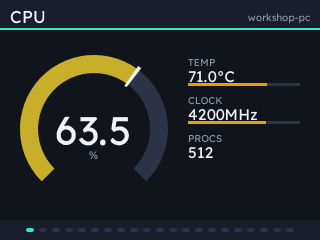
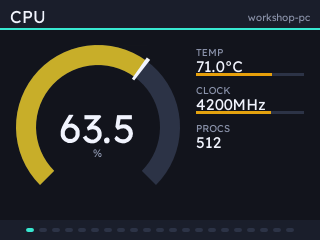
Put every split page on one layout
A dial, a ring stack and a clock face all divide the band into something round
and a column of text, and the three did it differently: the rings had their own
centre 20px right of the dial's, an outer radius 10px larger, and a legend
column 8px further right that its outermost ring came within 2px of. Paging
between them moved everything.

look.DIAL_GAP is now the space at the screen edge, between the two halves and
at the right edge, with DIAL_C, DIAL_OUTER, READOUT_X and READOUT_W worked out
from it, and look.readout_rows gives the row grid. The gauge grew to the radius
a clock face wants, 82, so all three fill the same circle: measured off the
framebuffer, every split page now inks x 16..179 about a centre of 98 with its
text starting at 196.

draw.readout is one row widget for both the dial and the ring legend, taking
either a level bar or a line stating what full is, and a colour chip for a row
whose note has displaced the bar. Ring bands are thinned to 14 so four still
fit. draw.column_lines stacks a column that is not readings - a clock's time,
place and date - so an extension gets the left edge and the rhythm without
working either out, and DEVELOPMENT.md states the rule for plugin authors.

Changed region(s): [[0.0312, 0.175, 0.9688, 0.7583], [0.125, 0.6125, 0.1875, 0.7292]]

diff --git a/src/statsbadge/badge_app/draw.py b/src/statsbadge/badge_app/draw.py
@@ -8,6 +8,13 @@ is not new every frame is baked into a sprite once.
 
 The header and footer change only when the page or the theme does, so they are baked
 into two band images per page and blitted over a raster fill of the body.
+
+A page that splits into something round and a column of text beside it - the single dial,
+the ring stack, an extension's clock face - takes its geometry from `look.DIAL_C`,
+`look.DIAL_OUTER` and `look.READOUT_X`, and its rows from `look.readout_rows` and either
+`readout` or `column_lines` here. Nothing in a split page should place text on a number of
+its own: the pages are paged between, and anything choosing its own margin moves under the
+reader when they press a button.
 """
 
 import os
@@ -483,17 +490,25 @@ def dials(theme, entries):
               name, shape_of["value"], shape_of["label"], fraction is None, icon, unit)
 
 
-def readout(theme, index, name, value_text, fraction=None, count=1):
-    """One of the small figures beside a dial, with a thin bar under it.
+def readout(theme, y, name, value_text, fraction=None, note=None, chip=None):
+    """One row of the column beside a gauge: a name, the reading under it, and then either
+    a bar for the level or a line saying what full is.
 
-    `count` is how many there are, because where the stack starts depends on that: it
-    hangs off the top of the dial unless it is too tall to.
+    Every page that draws a gauge and a column draws this row, so nothing moves when you
+    page between them. `chip` is the colour of the ring a row belongs to, which is what ties
+    the two together on a page where the gauge is not the bar.
     """
     x = look.READOUT_X
-    y = look.readout_top(count) + index * look.READOUT_H
     blit_label(name, look.SIZE_SMALL, theme.dim, x, y)
     blit_label(value_text, look.SIZE_VALUE, theme.ink, x, y + 10)
-    if fraction is not None:
+    if chip:
+        screen.pen = color.rgb(*chip)
+        screen.rectangle(rect(x + look.READOUT_W - 10, y + 3, 10, 10))
+    if note:
+        # What a full ring is, for a reading whose scale is not a round number. It takes
+        # the bar's place: the ring it belongs to is already the bar.
+        blit_label(note, look.SIZE_SMALL, theme.dim, x, y + 29)
+    elif fraction is not None:
         width = look.READOUT_W
         fraction = max(0.0, min(1.0, fraction))
         screen.pen = color.rgb(*theme.grid)
@@ -501,6 +516,29 @@ def readout(theme, index, name, value_text, fraction=None, count=1):
         if fraction > 0:
             screen.pen = color.rgb(*theme.at(fraction))
             screen.rectangle(rect(x, y + 28, int(width * fraction), 3))
+
+
+# Between one line of a free-form column and the next, on top of the line's own height.
+COLUMN_LEAD = 3
+
+
+def column_lines(entries, top=None, align=0):
+    """A stack of lines down the column beside a gauge, each `(text, size, rgb)`.
+
+    For a page whose rows are not readouts - a clock's time, place and date - so that it
+    gets the column's left edge and a consistent rhythm without working either out. Empty
+    strings are skipped, so a caller can offer a line it may not have.
+
+    Returns the y after the last line, for a page that has more to place by hand.
+    """
+    y = (look.BODY_TOP + 12) if top is None else top
+    x = look.READOUT_X + (look.READOUT_W if align == 2 else 0)
+    for text_value, size, rgb in entries:
+        if not text_value:
+            continue
+        blit_label(text_value, size, rgb, x, y, align=align)
+        y += int(size * 1.35) + COLUMN_LEAD
+    return y
 
 
 def bars(theme, values, maximum=100.0, field="pct"):
@@ -725,49 +763,39 @@ def toast(theme, message):
 
 # -- rings ------------------------------------------------------------------
 
-# The stack reaches further right than a single dial does, so its legend gets a column of
-# its own instead of the dial's.
-RINGS_C = (look.W // 2 - 46, look.BODY_MID)
-RINGS_OUTER = 84
-RINGS_LEGEND_X = RINGS_C[0] + RINGS_OUTER + 2
+# Thin enough that four rings fit the dial's own radius, which is what keeps this page on
+# the same bounds as a single gauge.
+RING_BAND = 14
+RING_GAP = 4
 
 
 def rings(theme, entries):
     """Concentric sweep gauges, outermost first, with a legend down the side.
 
     One arc per reading, so four readings cost four shapes: the same trick the single
-    gauge uses, at a quarter of the screen each.
+    gauge uses, at a quarter of the screen each. The stack sits where the single dial does
+    and the legend is that page's own column of readouts.
     """
-    centre = RINGS_C
-    outer = RINGS_OUTER
-    band = 15
-    gap = 4
-    # Room for a third line under a reading where one has a peak to state.
-    row = 42 if any(entry[4] for entry in entries[:4]) else 38
-    for index, (name, value_text, fraction, rgb, note) in enumerate(entries[:4]):
-        ring_outer = outer - index * (band + gap)
-        ring_inner = ring_outer - band
-        if ring_inner < 12:
+    rows = entries[:4]
+    height = look.READOUT_NOTE_H if any(entry[4] for entry in rows) else look.READOUT_H
+    for index, ((name, value_text, fraction, rgb, note), y) in enumerate(
+            zip(rows, look.readout_rows(len(rows), height))):
+        ring_outer = look.DIAL_OUTER - index * (RING_BAND + RING_GAP)
+        ring_inner = ring_outer - RING_BAND
+        if ring_inner < 8:
             break
         screen.pen = color.rgb(*theme.grid)
-        screen.shape(shape.arc(vec2(*centre), ring_inner, ring_outer,
+        screen.shape(shape.arc(vec2(*look.DIAL_C), ring_inner, ring_outer,
                                look.DIAL_FROM, look.DIAL_TO))
         if fraction:
             sweep = look.DIAL_FROM + (look.DIAL_TO - look.DIAL_FROM) * fraction
             screen.pen = color.rgb(*rgb)
-            screen.shape(shape.arc(vec2(*centre), ring_inner, ring_outer,
+            screen.shape(shape.arc(vec2(*look.DIAL_C), ring_inner, ring_outer,
                                    look.DIAL_FROM, sweep))
-
-        # The legend doubles as the reading, so the rings need no labels on them.
-        y = look.BODY_TOP + 12 + index * row
-        text_x = RINGS_LEGEND_X + 14
-        screen.pen = color.rgb(*rgb)
-        screen.rectangle(rect(RINGS_LEGEND_X, y + 6, 8, 8))
-        blit_label(name, look.SIZE_LABEL, theme.dim, text_x, y)
-        blit_label(value_text, look.SIZE_VALUE, theme.ink, text_x, y + 14)
-        if note:
-            # What a full ring is, for a reading whose scale is not a round number.
-            blit_label(note, look.SIZE_SMALL, theme.dim, text_x, y + 30)
+        # The legend doubles as the reading, so the rings need no labels on them. The chip
+        # is only for a row whose scale note has taken the bar's place: where there is a
+        # bar, it is already drawn in this ring's colour.
+        readout(theme, y, name, value_text, fraction, note, chip=rgb if note else None)
 
 
 # -- sparklines -------------------------------------------------------------

diff --git a/extensions/statsbadge-clock/src/statsbadge_clock/badge/clockface.py b/extensions/statsbadge-clock/src/statsbadge_clock/badge/clockface.py
@@ -31,8 +31,10 @@ WEATHER_FONT = "weather"
 # two of them together have room for.
 ICON_SIZE = 32
 
-CENTRE = (look.W // 2 - 62, look.BODY_TOP + look.BODY_H // 2)
-RADIUS = 82
+# The app's own split layout: where its single gauge sits and how big it may be, so paging
+# from a dial or a ring stack to a clock does not move the thing being looked at.
+CENTRE = look.DIAL_C
+RADIUS = look.DIAL_OUTER
 
 # The dials, each a palette and a set of proportions of the radius. A dial is mostly the
 # weight of its marks against the width of its hands, so these are the whole design.
@@ -305,21 +307,16 @@ def render(page, frame, _history, theme):
         screen.pen = color.rgb(*rgb["second"])
         screen.shape(shape.circle(vec2(*CENTRE), spec["hub"]))
 
-    # The readouts beside the dial, in the badge's theme rather than the clock's. Placed
-    # off the dial and not off the app's own readout column, which belongs to a gauge of a
-    # different size.
-    x = CENTRE[0] + RADIUS + 14
-    y = look.BODY_TOP + 12
-    if clock.get("time"):
-        draw.blit_label(clock["time"], look.SIZE_BIG, theme.ink, x, y)
-        y += 32
-    if label:
-        # Which city this is, since the point of a second page is that it is elsewhere.
-        draw.blit_label(label, look.SIZE_SMALL, theme.accent, x, y)
-        y += 16
-    if clock.get("date"):
-        draw.blit_label(clock["date"], look.SIZE_SMALL, theme.dim, x, y)
-        y += 24
+    # The readouts beside the dial, in the badge's theme rather than the clock's, and down
+    # the app's own column so they line up with a gauge page's.
+    x = look.READOUT_X
+    # Which city this is, since the point of a second page is that it is elsewhere.
+    y = draw.column_lines((
+        (clock.get("time"), look.SIZE_BIG, theme.ink),
+        (label, look.SIZE_SMALL, theme.accent),
+        (clock.get("date"), look.SIZE_SMALL, theme.dim),
+    ))
+    y += 6
 
     # The symbol beside the reading, not above it: stacked, the column ran on to within a
     # few pixels of the page indicator.
@@ -336,17 +333,13 @@ def render(page, frame, _history, theme):
                             x + (drawn + 8 if drawn else 0), y)
         y += ICON_SIZE + 4
 
-    condition = weather.get("condition")
-    if condition:
-        draw.blit_label(condition, look.SIZE_SMALL, theme.dim, x, y)
-        y += 19
-
+    wind = None
     if weather.get("wind") is not None:
-        draw.blit_label("wind {:.0f} {}".format(weather["wind"],
-                                                weather.get("wind_unit") or ""),
-                        look.SIZE_SMALL, theme.dim, x, y)
+        wind = "wind {:.0f} {}".format(weather["wind"], weather.get("wind_unit") or "")
     elif not weather:
-        draw.blit_label("no location set", look.SIZE_SMALL, theme.dim, x, y)
+        wind = "no location set"
+    draw.column_lines(((weather.get("condition"), look.SIZE_SMALL, theme.dim),
+                       (wind, look.SIZE_SMALL, theme.dim)), top=y)
 
 
 # The badge's clock is set from the host once, and then left alone. A PCF85063A drifts a

diff --git a/src/statsbadge/badge_app/look.py b/src/statsbadge/badge_app/look.py
@@ -18,34 +18,45 @@ BODY_MID = BODY_TOP + BODY_H // 2
 
 PAD = 10
 
-# Dial geometry, in the body band. The one dial and the readouts beside it get the same
-# gap at the screen edge, between the two, and at the right edge, so the positions are
-# worked out from that gap rather than picked one at a time.
-DIAL_GAP = 20
-DIAL_OUTER = 74
-DIAL_INNER = 56
-DIAL_C = (DIAL_GAP + DIAL_OUTER, BODY_TOP + BODY_H // 2 + 4)
+# Dial geometry, in the body band, and with it the whole of the left half of any page that
+# splits into a gauge and a column: the single dial, the ring stack and an extension's clock
+# face all draw here. The gauge, the gap to the column and the right margin are all DIAL_GAP,
+# so the positions are worked out from it rather than picked one at a time, and the radius is
+# as large as that leaves room for - a clock face is a picture of an object and wants the
+# space, and a gauge that filled less of it made the layout jump between pages.
+DIAL_GAP = 16
+DIAL_OUTER = 82
+DIAL_INNER = 62
+# Nudged down, because a gauge with its gap at the bottom carries its weight high and reads
+# as sitting above centre when it is on it.
+DIAL_C = (DIAL_GAP + DIAL_OUTER, BODY_TOP + BODY_H // 2 + 2)
 # A 270 degree sweep with the gap centred on the bottom, so it looks like a gauge.
 # Angles start at the top and run clockwise: 225 is lower-left, and 495 is 135 once
 # round, which is lower-right.
 DIAL_FROM = 225.0
 DIAL_TO = 495.0
 
-# Where a dial's readouts stack, to the right of it.
+# Where the readouts stack, to the right of whatever gauge the page draws.
 READOUT_X = DIAL_C[0] + DIAL_OUTER + DIAL_GAP
 READOUT_W = W - READOUT_X - DIAL_GAP
 # Tall enough for the name, the reading and its bar, with a gap to the next name.
 READOUT_H = 38
+# A row that has to state its own full scale puts that where the bar would have gone, and
+# needs the height back: at the plain pitch the note and the next row's name touch.
+READOUT_NOTE_H = 46
 
 
-def readout_top(count):
-    """Where a stack of `count` readouts starts.
+def readout_rows(count, height=READOUT_H):
+    """Where each of `count` readout rows starts.
 
-    Level with the top of the dial, which is what makes the two read as one block, and
-    lifted only if that many would otherwise run past the bottom of the band.
+    Level with the top of the dial, which is what makes the gauge and the column read as
+    one block, and lifted only if that many rows would otherwise run past the band. Every
+    page that draws a gauge and a column uses this, so nothing moves when you page between
+    them.
     """
-    room = BODY_TOP + BODY_H - 6 - count * READOUT_H
-    return max(BODY_TOP + 6, min(DIAL_C[1] - DIAL_OUTER, room))
+    room = BODY_TOP + BODY_H - 6 - count * height
+    top = max(BODY_TOP + 6, min(DIAL_C[1] - DIAL_OUTER, room))
+    return [top + index * height for index in range(count)]
 
 
 # The app carries its own text font rather than borrowing one off the badge: what is in

diff --git a/tests/test_core.py b/tests/test_core.py
@@ -9,6 +9,7 @@ import json
 import os
 import struct
 import pathlib
+import re
 import socket
 import sys
 import tempfile
@@ -1288,12 +1289,41 @@ def test_a_row_of_text_and_a_plot_measures_its_columns(_h):
         body = body[:body.index("\ndef ", 1)]
         assert "column_width(" in body, f"{widget} still lays out to a fixed column"
 
-    # The dial and its readouts sit in the band on one gap, so no part of the pair can be
+    # The gauge and its column sit in the band on one gap, so no part of the pair can be
     # placed on a number of its own.
     look_source = (pathlib.Path(install.app_source_dir()) / "look.py").read_text()
     for name in ("DIAL_C = (DIAL_GAP", "READOUT_X = DIAL_C[0]",
                  "READOUT_W = W - READOUT_X - DIAL_GAP"):
         assert name in look_source, f"{name} is not derived from the dial's gap"
+
+
+@check
+def test_a_split_page_takes_the_layout_it_is_given(_h):
+    """A dial, a ring stack and a clock face all split the band into something round and a
+    column, and the pages are paged between: anything choosing its own centre or margin
+    moves under the reader when they press a button."""
+    app = pathlib.Path(install.app_source_dir())
+
+    # Four rings have to fit the same radius a single gauge draws in.
+    look_source = (app / "look.py").read_text()
+    draw_source = (app / "draw.py").read_text()
+    scope = {}
+    for line in look_source.splitlines():
+        if line.startswith(("DIAL_OUTER", "DIAL_GAP", "READOUT_H", "READOUT_NOTE_H")):
+            exec(line, scope)  # noqa: S102  our own module, four constants off the top
+    band = int(re.search(r"^RING_BAND = (\d+)", draw_source, re.M).group(1))
+    gap = int(re.search(r"^RING_GAP = (\d+)", draw_source, re.M).group(1))
+    innermost = scope["DIAL_OUTER"] - 4 * band - 3 * gap
+    assert innermost >= 8, f"the fourth ring is {innermost} across; it would be dropped"
+
+    # The clock takes both from the app rather than restating them, and puts its column
+    # where every other split page puts it.
+    clock = (pathlib.Path("extensions/statsbadge-clock/src/statsbadge_clock/badge")
+             / "clockface.py").read_text()
+    assert "CENTRE = look.DIAL_C" in clock, "the clock face has a centre of its own"
+    assert "RADIUS = look.DIAL_OUTER" in clock, "the clock face has a radius of its own"
+    assert "look.READOUT_X" in clock and "draw.column_lines" in clock, (
+        "the clock face lays its column out by hand")
 
 
 @check

diff --git a/src/statsbadge/badge_app/pages.py b/src/statsbadge/badge_app/pages.py
@@ -136,13 +136,12 @@ def _dial(page, frame, _history, theme):
     under = scale_note(ref, frame) or draw.short_unit(field)
     draw.dial(theme, fraction, draw.fmt(value, field), under, cold=value is None)
     readouts = page.get("readouts", [])[:3]
-    for i, readout_ref in enumerate(readouts):
+    for readout_ref, y in zip(readouts, look.readout_rows(len(readouts))):
         readout_value = value_of(frame, readout_ref)
         readout_field = readout_ref.split(".")[-1]
-        draw.readout(theme, i, name_for(readout_ref),
+        draw.readout(theme, y, name_for(readout_ref),
                      draw.reading(readout_value, readout_field),
-                     fraction_of(readout_ref, readout_value, None, frame),
-                     count=len(readouts))
+                     fraction_of(readout_ref, readout_value, None, frame))
 
 
 def _bars(page, frame, _history, theme):

diff --git a/DEVELOPMENT.md b/DEVELOPMENT.md
@@ -120,7 +120,7 @@ So anything repeated is baked and blitted, and only what changes shape is drawn 
 - **A graph** is one `shape.custom` per series, a polyline across the top and back along the bottom. The two series take opposite ends of the ramp - the accent and the ramp at 0.85 are the same orange.
 - **Bars** are raster rectangles. Axis-aligned needs no anti-aliasing, and this is the page that can have thirty-two.
 - **A text column is measured, not fixed.** A page of names down one side and readings down the other cannot know either width in advance: the names are whatever the chosen fields are called and a reading is whatever its unit makes it. `draw.column_width` measures both and the plot takes the rest, so a sparkline page reflows instead of leaving a gap after the names and running the readings over the plots.
-- **The single dial and its readouts sit on one gap.** `look.DIAL_GAP` is the space at the screen edge, between the dial and the readouts, and at the right edge; the positions are worked out from it. The stack hangs off the top of the dial unless there are too many to fit the band.
+- **Every split page draws in the same place.** `look.DIAL_GAP` is the space at the screen edge, between the round half and the column, and at the right edge, and `DIAL_C`, `DIAL_OUTER`, `READOUT_X` and `READOUT_W` are worked out from it. The single dial, the ring stack and the clock face all use those, and all their rows come from `look.readout_rows`, which hangs the stack off the top of the gauge and lifts it only when there are too many rows to fit the band. The ring bands are as thin as it takes for four of them to fit the gauge's own radius, because the alternative was a stack wider than the dial with a legend jammed against it.
 
 A page changes when a poll lands, once a second, so frames in between draw nothing at all: `badge.default_clear = None` leaves the framebuffer standing. A page that animates adds its kind to `pages.ANIMATED`, which is how the clock's second hand sweeps.
 
@@ -166,6 +166,8 @@ macOS is the stingiest host. GPU utilisation and VRAM come from IOAccelerator vi
 A package advertising a `statsbadge.sources` entry point gets two things: a group in the frame, which the built-in page kinds can draw with no badge-side code at all, and optionally badge-side Python. Set `badge_module` to a `.py` and `statsbadge install --with-extensions` copies it into the app's `ext/` directory, where the app imports it at startup and it registers itself in `pages.EXTRA`.
 
 [`extensions/statsbadge-clock`](extensions/statsbadge-clock) is a worked example of both halves, and of why the second exists: its second hand is carried forward from the badge's frame clock between polls, so it sweeps at 45fps off one reading a second.
+
+A badge module draws with the same `draw` and `look` the app uses, and should take its layout from them rather than choosing its own. Pages are paged between, so anything that picks its own centre or margin moves under the reader when they press a button. For a page that splits into something round and a column of text - the single dial, the ring stack, the clock face - that means `look.DIAL_C` and `look.DIAL_OUTER` for the round half, `look.READOUT_X` and `look.READOUT_W` for the column, and rows from `look.readout_rows` drawn with `draw.readout` or, where they are not readings, `draw.column_lines`. `draw.column_width` fits a column to the strings going in it, and `draw.icon_baseline` puts a symbol on the cap band of the words beside it.
 
 ## Packaging
 
